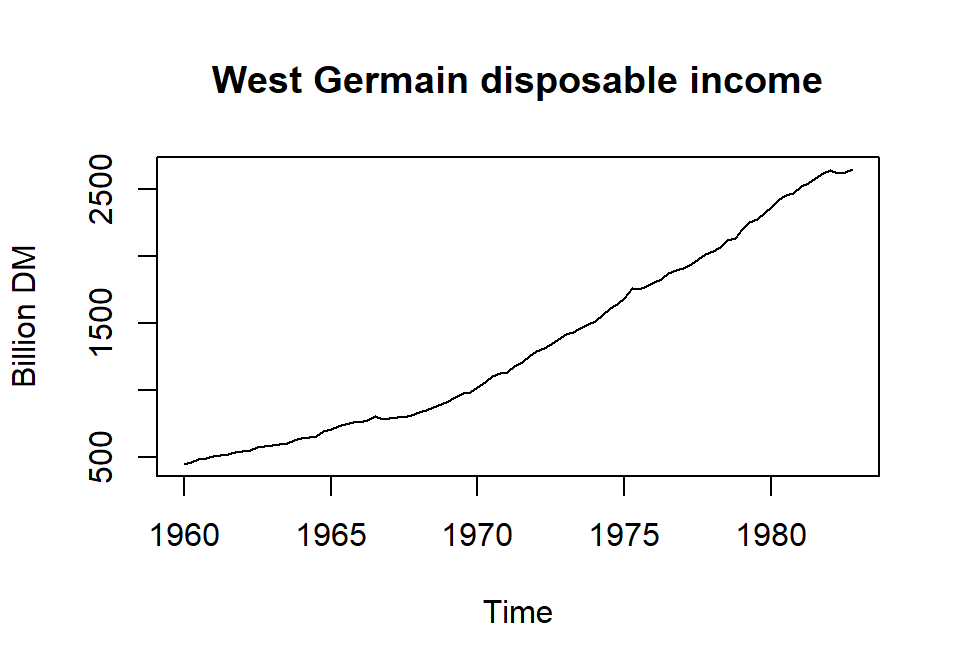
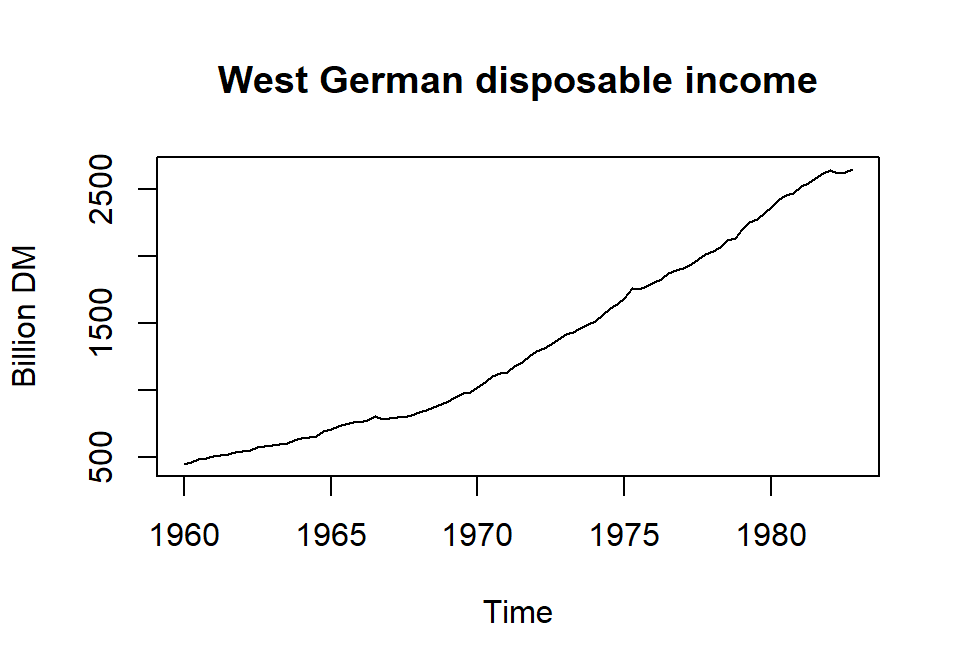
Fix prose and comment problems found while restyling the site
- Timmer: typos (demadn, folling, contry, enought) and the misspelt
  chunk option warining; the page cannot be knitted without the WIOD
  data, so its HTML text is corrected in place.
- Sheperd: "If found" -> "I found", a clearer note under Table 7, and
  Table 13 as a level-2 heading like the others.
- Wooldridge 2: the unclosed library(wooldridge), "colums" and
  "observersations", and the data frame sentence that named the salary
  column where it meant roe.
- Wooldridge 6: the introduction no longer mentions the foreign
  package, and the interaction example no longer describes with() and
  print() calls the code does not make.
- Wooldridge 11: the text on equation 11.17 describes the lags as the
  code builds them, with ts(), lag() and cbind().
- stationarity, bvec, ssvs: "West Germain" in a plot title and typos in
  code comments.
- Koop-Korobilis and the dynamic factor introduction: object mentions
  in the text use [["name"]] like the code.

Printed numbers are unchanged on every re-knitted page.

Changed region(s): [[0.2188, 0.0938, 0.875, 0.1562]]

diff --git a/content/reproduction/wooldridge/wooldridge02.html b/content/reproduction/wooldridge/wooldridge02.html
@@ -8,7 +8,7 @@ date: "2018-10-04"
 
 <p>In R the function for basic linear regression models is <code>lm</code>, which is short for <em>linear model</em>. Its first argument is a formula of the regression model, which has the form <code>y ~ a</code>. The tilde between <em>y</em> and <em>a</em> indicates that <em>y</em> is the dependent variable and <em>a</em> is the explanatory variable. It is also possible to add a further explanatory variable - for example <em>b</em> - to the regression by adding a plus sign followed by the name of the additional variable to the formula. In our example this would result in <code>y ~ a + b</code>. But since this chapter only covers models with a single explanatory variable, we postpone this issue to the next chapter.</p>
 <p>Beside the formula, the <code>lm</code> function also requires you to specify the data used for the estimation. This can be done in multiple ways, but it is quite common practise to specify a data frame as the <em>data</em> argument, e.g. <code>data = my_data_frame</code>, which contains the variables that are mentioned in the model formula.</p>
-<p>With this knowledge we can already estimate a simple model. In the textbook this is a regression of the variable <em>salary</em> on the variable <em>roe</em>, where both variables are contained in the <em>ceosal1</em> data set. We can access this data set by loading the <em>wooldridge</em> data package with <code>library(wooldridge</code> and then load the sample with <code>data("ceosal1")</code>:</p>
+<p>With this knowledge we can already estimate a simple model. In the textbook this is a regression of the variable <em>salary</em> on the variable <em>roe</em>, where both variables are contained in the <em>ceosal1</em> data set. We can access this data set by loading the <em>wooldridge</em> data package with <code>library("wooldridge")</code> and then load the sample with <code>data("ceosal1")</code>:</p>
 <pre class="r"><code>library(&quot;wooldridge&quot;) # Load the data package
 data(&quot;ceosal1&quot;) # Load the data</code></pre>
 <p>Then we can proceed with the model estimation:</p>
@@ -133,12 +133,12 @@ summary(model_1)</code></pre>
 ## F-statistic:  1018 on 1 and 171 DF,  p-value: &lt; 2.2e-16</code></pre>
 <p><strong>Example 2.6</strong></p>
 <p>To get the results for table 2.2 redo the script from example 2.3. R does not only save the coefficients, but also some other important values. Type in <code>names(model_1)</code> to get a list of variables that are saved under <code>model_1</code> as well. Among them are <em>fitted.values</em> and <em>residuals</em> which represent <em>salaryhat</em> and <em>uhat</em> from the textbook, respectively.</p>
-<p>In order to make a table we generate a data frame with the first two colums containing the first 15 observersations from the original dataset and two additional columns into which we later will paste the estimated values. We define the data frame with</p>
+<p>In order to make a table we generate a data frame with the first two columns containing the first 15 observations from the original dataset and two additional columns into which we later will paste the estimated values. We define the data frame with</p>
 <pre class="r"><code>df_1 &lt;- data.frame(roe = ceosal1[[&quot;roe&quot;]][1:15],
                    salary = ceosal1[[&quot;salary&quot;]][1:15],
                    salaryhat = NA,
                    uhat = NA)</code></pre>
-<p><code>data.frame</code> is the function which generates the frame. <em>roe</em> is the label of the column which is defined as the value of <em>ceosal1$salary</em> at the positions 1 to 15, i.e. <code>[1:15]</code>. The structure is the same for the following part with <em>salary</em>. <em>salaryhat</em> and <em>uhat</em> are not defined and <code>NA</code> (<strong>n</strong>ot <strong>a</strong>vailable) is used to indicate that. <code>NA</code> is in general the indicator of missing values in R.</p>
+<p><code>data.frame</code> is the function which generates the frame. <em>roe</em> is the label of the column which is defined as the value of <code>ceosal1[["roe"]]</code> at the positions 1 to 15, i.e. <code>[1:15]</code>. The structure is the same for the following part with <em>salary</em>. <em>salaryhat</em> and <em>uhat</em> are not defined and <code>NA</code> (<strong>n</strong>ot <strong>a</strong>vailable) is used to indicate that. <code>NA</code> is in general the indicator of missing values in R.</p>
 <p>As a next step we paste the fitted values and the residuals from the regression into the data frame. Therefore, we separately paste the first 15 fitted values (<code>model_1[["fitted.values"]][1:15]</code>) from the regression into the column <em>salaryhat</em> (<code>df_1[["salaryhat"]]</code>). The same method applies to the resudials. Finally, display the table with <em>df_1</em></p>
 <pre class="r"><code>df_1[[&quot;salaryhat&quot;]] &lt;- model_1[[&quot;fitted.values&quot;]][1:15]
 df_1[[&quot;uhat&quot;]] &lt;- model_1[[&quot;residuals&quot;]][1:15]

diff --git a/content/reproduction/2015_timmer_wiod.html b/content/reproduction/2015_timmer_wiod.html
@@ -29,7 +29,7 @@ data &lt;- read.dta13(&quot;wiot_full.dta&quot;)</code></pre>
 </div>
 <div id="value-added-export-ratios-in-2004" class="section level2">
 <h2>Value added export ratios in 2004</h2>
-<p>Timmer et al. (2015) compare different data sets on international input-output tables by calculating value-added exports (VAX) for a series of countries in 2004. VAX is a popular indicator, which measures a contry’s domestic value added embodied in final expenditures abroad.</p>
+<p>Timmer et al. (2015) compare different data sets on international input-output tables by calculating value-added exports (VAX) for a series of countries in 2004. VAX is a popular indicator, which measures a country’s domestic value added embodied in final expenditures abroad.</p>
 <p>In order to calculate VAX the Leontief decomposition is employed. In R this composition is implemented in the <code>decompr</code> package. The function <code>decomp</code> requires several input arguments: intermediate demand, final demand, a vector of country, a vector of industry and a vector of final outputs. The following code chunks can be used to obtain them.</p>
 <pre class="r"><code># Load data manipulation packages
 library(dplyr)
@@ -68,7 +68,7 @@ interm &lt;- temp %&gt;%
 
 # Drop first three columns
 interm &lt;- interm[,-(1:3)]</code></pre>
-<p>Final demadn is obtained with</p>
+<p>Final demand is obtained with</p>
 <pre class="r"><code># Final demand
 final &lt;- temp %&gt;%
   filter(row_country %in% countries,
@@ -128,7 +128,7 @@ vax &lt;- leon %&gt;%
 
 # Order observations by using factor
 vax$row_country &lt;- factor(vax$row_country, levels = vax$row_country)</code></pre>
-<p>The result can be plotted. The folling graph reproduces figure 2 in Timmer et al. (2015).</p>
+<p>The result can be plotted. The following graph reproduces figure 2 in Timmer et al. (2015).</p>
 <pre class="r"><code>library(ggplot2)
 
 ggplot(vax, aes(x = row_country, y = vax, colour = &quot;a&quot;)) +
@@ -153,6 +153,6 @@ ggplot(vax, aes(x = row_country, y = vax, colour = &quot;a&quot;)) +
 <div class="footnotes">
 <hr />
 <ol>
-<li id="fn1"><p>Before you download the data please note that the file has a size of about 250 MB. So make sure you have enought space on your disc before you download it.<a href="#fnref1">↩</a></p></li>
+<li id="fn1"><p>Before you download the data please note that the file has a size of about 250 MB. So make sure you have enough space on your disc before you download it.<a href="#fnref1">↩</a></p></li>
 </ol>
 </div>

diff --git a/content/reproduction/2014_koop_korobilis_fci.html b/content/reproduction/2014_koop_korobilis_fci.html
@@ -41,7 +41,7 @@ description: "Koop and Korobilis (2014) extract a financial conditions index fro
 set.seed(1234567)
 
 data(&quot;koop&quot;)</code></pre>
-<p><code>koop$financial</code> holds the 18 financial series, quarterly from 1970 Q1 to 2013 Q3:</p>
+<p><code>koop[["financial"]]</code> holds the 18 financial series, quarterly from 1970 Q1 to 2013 Q3:</p>
 <pre class="r"><code>colnames(koop[[&quot;financial&quot;]])</code></pre>
 <pre><code>##  [1] &quot;sp500&quot;          &quot;twexmmth&quot;       &quot;oil&quot;            &quot;spread_ted&quot;     &quot;spread_10_2&quot;   
 ##  [6] &quot;spread_2_3m&quot;    &quot;spread_comm&quot;    &quot;loanhpi&quot;        &quot;spread_30_mort&quot; &quot;cmdebt&quot;        
@@ -161,7 +161,7 @@ for (i in seq_len(n_vintages)) {
   realtime[[&quot;time&quot;]][i] &lt;- end(index_i)[1] + (end(index_i)[2] - 1) / 4
   realtime[[&quot;index&quot;]][i] &lt;- as.numeric(index_i)[length(index_i)]
 }</code></pre>
-<p>96 models, one per vintage, in about a second in total. Each entry of <code>realtime$index</code> is a one-off reading: the value the index would have taken in that quarter, estimated with nothing later than that quarter’s data. Lining those up against the same quarters of the full sample index – built with hindsight, and re-signed on <code>sp500</code> for comparability – shows how much the revisions matter. Since <code>sp500</code> orients the index the other way round from <code>vix</code>, the figure below is the mirror image of the one above: here a <em>low</em> value means stressed conditions.</p>
+<p>96 models, one per vintage, in about a second in total. Each entry of <code>realtime[["index"]]</code> is a one-off reading: the value the index would have taken in that quarter, estimated with nothing later than that quarter’s data. Lining those up against the same quarters of the full sample index – built with hindsight, and re-signed on <code>sp500</code> for comparability – shows how much the revisions matter. Since <code>sp500</code> orients the index the other way round from <code>vix</code>, the figure below is the mirror image of the one above: here a <em>low</em> value means stressed conditions.</p>
 <pre class="r"><code>index_full &lt;- fci(model, sign_on = &quot;sp500&quot;)
 
 realtime_quarters &lt;- round(realtime[[&quot;time&quot;]], 4)

diff --git a/content/timeseries/stationarity.html b/content/timeseries/stationarity.html
@@ -26,7 +26,7 @@ library(&quot;bvartools&quot;)</code></pre>
 income &lt;- e1[, &quot;income&quot;]
 
 # Plot series
-plot(income, main = &quot;West Germain disposable income&quot;, ylab = &quot;Billion DM&quot;)</code></pre>
+plot(income, main = &quot;West German disposable income&quot;, ylab = &quot;Billion DM&quot;)</code></pre>
 <p><img src="/timeseries/stationarity_files/figure-html/unnamed-chunk-1-1.png" alt="" width="480" /></p>
 <p>The series is continuously increasing and, thus, does not fluctuate around a constant mean. Furthermore, if we calculated the variances for an increasing window of periods from the beginning of the series to the end, we would see a constant increase in the estimated values. Therefore, disposable income in levels does not seem to be a stationary series. But how can we make this series stationary? For this it is useful to know that there are two popular models for nonstationary series, trend- and difference-stationary models.<a href="#fn1" class="footnote-ref" id="fnref1"><sup>1</sup></a></p>
 <p><strong>Trend-stationary</strong>: A series is trend-stationary, if it fluctuates around a deterministic trend, to which it reverts in the long run. Subtracting this trend from the original series yields a stationary series. For example, assuming that log disposable income follows a linear trend, we can regress the series on a constant and a linear trend and use the residuals as a candidate for a stationary series:</p>
@@ -50,7 +50,7 @@ abline(h = 0)</code></pre>
 <pre class="r"><code># Obtain first log-differences of disposable income
 d_lincome &lt;- diff(log(e1[, &quot;income&quot;])) * 100
 
-# # Plot and add horizontal line at 0
+# Plot and add horizontal line at 0
 plot(d_lincome,
      main = &quot;West German disposable income&quot;,
      ylab = &quot;Log growth rate&quot;)
@@ -90,7 +90,7 @@ lincome_data &lt;- cbind(lincome, d1_lincome, d2_lincome)
 # Get rid of NAs so that all have same length
 lincome_data &lt;- na.omit(lincome_data)
 
-# Rename columsn
+# Rename columns
 dimnames(lincome_data)[[2]] &lt;- c(&quot;level&quot;, &quot;diff_1&quot;, &quot;diff_2&quot;)</code></pre>
 <p>The <code>tseries</code> package contains the unit root tests that are used here.</p>
 <pre class="r"><code>library(&quot;tseries&quot;)</code></pre>

diff --git a/content/reproduction/wooldridge/wooldridge06.html b/content/reproduction/wooldridge/wooldridge06.html
@@ -7,7 +7,7 @@ date: "2018-02-04"
 
 
 <p>Chapter 6 in Wooldridge (2013) deals with some more issues that might have an impact on your estimates. Among these are a change in the scale of your variables, so-called beta-factors and the interpretation of variables that appear together with their squared values, i.e. interaction terms.</p>
-<p>Before you start, set your working directory, load the <code>foreign</code> library and download the data we are going to use in this chapter.</p>
+<p>Before you start, load the <code>wooldridge</code> package, which contains the data we are going to use in this chapter, and the <code>QuantPsyc</code> package for beta coefficients.</p>
 <pre class="r"><code>library(&quot;QuantPsyc&quot;)
 library(&quot;wooldridge&quot;)</code></pre>
 <p><strong>The impact of scales on the estimated coefficients</strong></p>
@@ -186,7 +186,7 @@ curve(beta_hat[1] + beta_hat[4] * x + beta_hat[5] * x^2,
       ylab = &quot;Effect&quot;)</code></pre>
 <p><img src="/reproduction/wooldridge/wooldridge06_files/figure-html/unnamed-chunk-5-1.png" alt="" width="384" /></p>
 <p><strong>Example 6.3</strong></p>
-<p>This example looks at interaction terms. I use the <code>with</code> function just to spare the <code>attend$</code>-part before each of the variables. I calculate squared values and the interaction term, estimate both models, print the summary - note that you have to use the <code>print</code> command since R will not return this line of code otherwise - and calculate an F-test via <code>anova</code>. The last line gives thee marginal effect of the attendance rate on the outcome variable.</p>
+<p>This example looks at interaction terms. I calculate squared values and the interaction term within the model formula, estimate both models, print the summary and calculate an F-test via <code>anova</code>. The last line gives the marginal effect of the attendance rate on the outcome variable.</p>
 <p>The problem with this coefficient is that there is no standard error for it. This is achieved by demeaning the second variable of the interaction term and estimating the model again.</p>
 <pre class="r"><code>data(&quot;attend&quot;)
 

diff --git a/content/reproduction/2016_sheperd_gravity.html b/content/reproduction/2016_sheperd_gravity.html
@@ -137,7 +137,7 @@ coeftest(lm_table_02, vcov. = vcov_02)</code></pre>
 ## comcol       -0.024507   0.201819  -0.1214  0.90336    
 ## ---
 ## Signif. codes:  0 &#39;***&#39; 0.001 &#39;**&#39; 0.01 &#39;*&#39; 0.05 &#39;.&#39; 0.1 &#39; &#39; 1</code></pre>
-<p>If found the code for the clustered standard errors <a href="https://rforpublichealth.blogspot.co.at/2014/10/easy-clustered-standard-errors-in-r.html">here</a>.</p>
+<p>I found the code for the clustered standard errors <a href="https://rforpublichealth.blogspot.co.at/2014/10/easy-clustered-standard-errors-in-r.html">here</a>.</p>
 </div>
 <div id="table-3" class="section level2">
 <h2>Table 3</h2>
@@ -226,7 +226,7 @@ coeftest(lm_table_06, vcov. = vcov_06)</code></pre>
 </div>
 <div id="table-7" class="section level2">
 <h2>Table 7</h2>
-<p>Not sure yet</p>
+<p>I am not yet sure that this reproduces Table 7 exactly.</p>
 <pre class="r"><code>data_table_07 &lt;- services %&gt;%
   filter(sector == &quot;SER&quot;) %&gt;%
   select(ln_trade, ln_distance, contig, comlang_off, colony,
@@ -489,8 +489,8 @@ coeftest(est_table_12, vcov. = vcov_12)</code></pre>
 ## Signif. codes:  0 &#39;***&#39; 0.001 &#39;**&#39; 0.01 &#39;*&#39; 0.05 &#39;.&#39; 0.1 &#39; &#39; 1</code></pre>
 <p>The coefficients are the same, but the clustered standard errors are not. I am not sure, where this comes from.</p>
 </div>
-<div id="table-13" class="section level1">
-<h1>Table 13</h1>
+<div id="table-13" class="section level2">
+<h2>Table 13</h2>
 <pre class="r"><code>services &lt;- mutate(services, ent_cost_both = ent_cost_exp * ent_cost_imp)
 
 data_table_13 &lt;- services %&gt;%

diff --git a/content/reproduction/wooldridge/wooldridge11.html b/content/reproduction/wooldridge/wooldridge11.html
@@ -36,7 +36,7 @@ summary(model_11_4)</code></pre>
 </div>
 <div id="equation-11.17" class="section level3">
 <h3>Equation 11.17</h3>
-<p>To estimate this model we have to calculate the lagged values ourselves. First, I created a vector of the return values from the nyse data set. To create the series with the first lagged returns I omitted the first value in the list of returns of the nyse data set by adding [-1]. But since this causes the length of the resulting series to decrease by one observation, we have to add an NA so that R can estimate the model. I added this NA by creating a list with c() which contains the values from the first lag list “nyse$return[-1]” and put an NA at the end. For the second list of lagged values I proceeded similarly. I omitted the first and second observation from the return list of the nyse data set and added two NAs. The estimation works as usual.</p>
+<p>To estimate this model we have to calculate the lagged values ourselves. First, I turn the returns of the nyse data set into a time series with <code>ts()</code>. <code>lag()</code> with <code>-1</code> and <code>-2</code> then shifts the series back by one and two periods, and <code>cbind()</code> lines the three series up by period, filling the periods a lag does not cover with <code>NA</code>. The estimation works as usual, with <code>lm()</code> dropping the incomplete periods.</p>
 <pre class="r"><code># Create lagged values
 nyse_return &lt;- ts(nyse[[&quot;return&quot;]])
 nyse_return_1 &lt;- lag(nyse_return, -1)

diff --git a/content/timeseries/dynamicfactorintro.html b/content/timeseries/dynamicfactorintro.html
@@ -78,7 +78,7 @@ model &lt;- create_dfmodel(x = bem_dfmdata,
 model &lt;- add_initial_values(model)</code></pre>
 <p>Third, posterior draws are obtained with the Gibbs sampler:</p>
 <pre class="r"><code>model &lt;- add_posterior_coefficients(model)</code></pre>
-<p>Fourth, the results are evaluated. The draws of each block of parameters are stored in <code>model$posterior</code>, with one row per draw. Since the whole path of the factor is part of every draw, the posterior median and a credible interval of the factor can be obtained for every period. The following figure compares the factor with the growth rate of real GDP. The factor is measured in the units of the common component of GDP growth, whose variance is much smaller than that of GDP growth itself. Therefore, both series are standardised for the comparison.</p>
+<p>Fourth, the results are evaluated. The draws of each block of parameters are stored in <code>model[["posterior"]]</code>, with one row per draw. Since the whole path of the factor is part of every draw, the posterior median and a credible interval of the factor can be obtained for every period. The following figure compares the factor with the growth rate of real GDP. The factor is measured in the units of the common component of GDP growth, whose variance is much smaller than that of GDP growth itself. Therefore, both series are standardised for the comparison.</p>
 <pre class="r"><code>library(&quot;ggplot2&quot;)
 
 # Posterior median and 80 per cent credible interval of the factor

diff --git a/content/timeseries/bvec.html b/content/timeseries/bvec.html
@@ -50,7 +50,7 @@ r &lt;- 1 # Set rank
 tt &lt;- ncol(y) # Number of observations
 k &lt;- nrow(y) # Number of endogenous variables
 k_w &lt;- nrow(w) # Number of regressors in error correction term
-# Number of differenced regressors and unrestrictec deterministic terms
+# Number of differenced regressors and unrestricted deterministic terms
 k_x &lt;- nrow(x)
 
 k_alpha &lt;- k * r # Number of elements in alpha

diff --git a/content/timeseries/ssvs.html b/content/timeseries/ssvs.html
@@ -68,7 +68,7 @@ a &lt;- matrix(0, m)
 a_v_i_prior &lt;- diag(1 / c(tau1)^2, m) # Inverse of the prior covariance matrix
 
 # Data containers for posterior draws
-iter &lt;- 15000 # Number of total Gibs sampler draws
+iter &lt;- 15000 # Number of total Gibbs sampler draws
 burnin &lt;- 5000 # Number of burn-in draws
 
 store &lt;- iter - burnin
